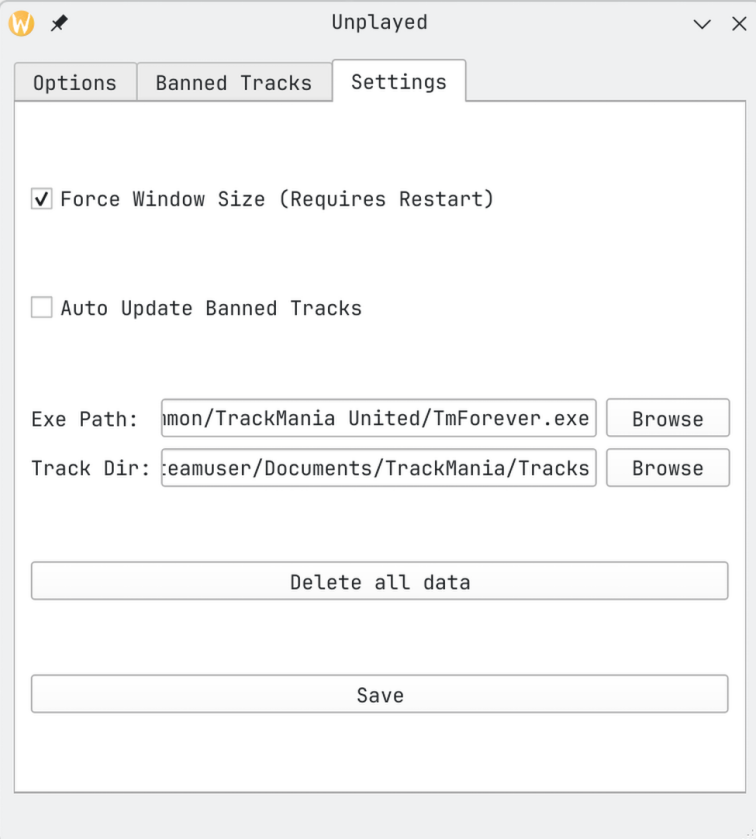
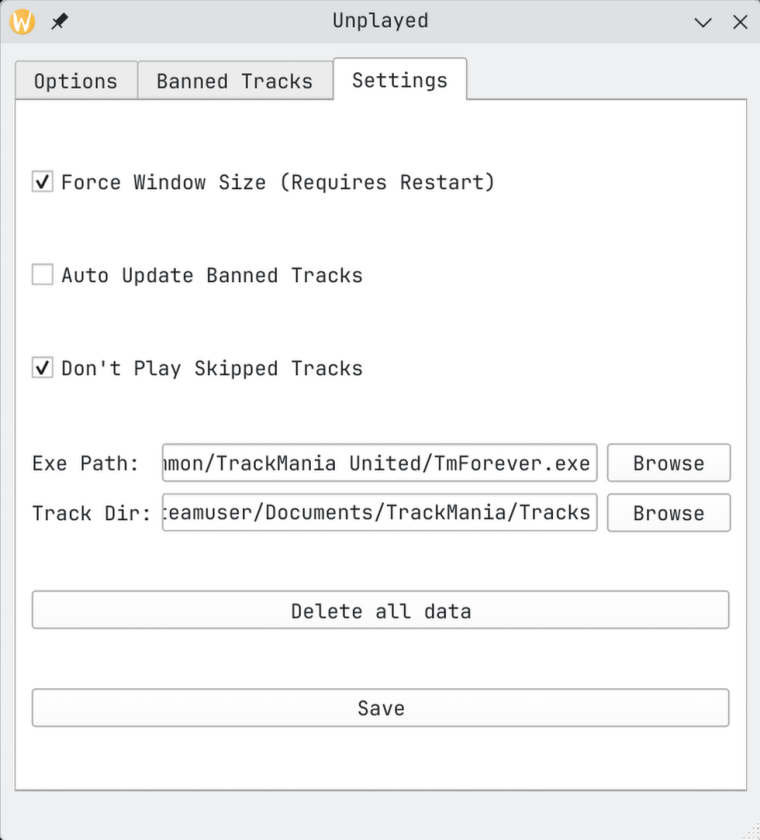
docs(readme): updated readme

diff --git a/README.md b/README.md
@@ -4,6 +4,7 @@ unplayed is a simple utility to play random tracks for TMNF/TMUF
 ![game screen](/assets/game.png)
 
 ## Requirements
+
 - TMNF/TMUF installed with Steam
 - [protontricks](https://github.com/Matoking/protontricks) (if on Linux)
 
@@ -15,8 +16,6 @@ First, location of the trackmania exe.
 
 Then, location where the tracks are stored.
 ![find tracks screen](/assets/find_tracks.png)
-
-Currently only checks for Steam install locations.
 
 ## Options
 
@@ -62,4 +61,5 @@ Will not play any tracks with track id as specified in each site tab.
 | ------------------------- | ------------------------------------------------------ |
 | Force Window Size         | Forces the window size so it can't be resized          |
 | Auto Update Banned Tracks | At startup, update banned tracks from Cheated Map List |
-| Delete all data           | Deletes all saved data. (Doesn't change UI)            |
+| Don't Play Skipped Tracks | Saves skipped tracks to file and won't play them again |
+| Delete all data           | Deletes all saved data (Doesn't change UI)             |
